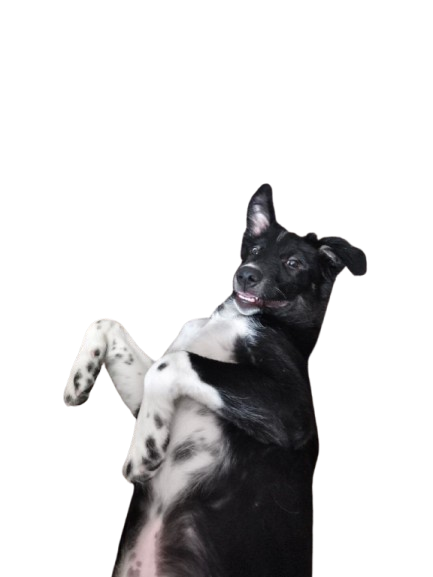
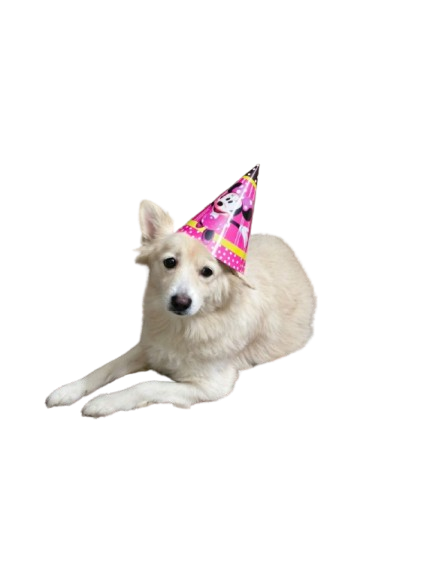
cke

Changed region(s): [[0.0901, 0.2808, 0.8707, 1.0]]

diff --git a/index.html b/index.html
@@ -767,6 +767,15 @@
   will-change:transform;
   transition:opacity .6s ease;
 }
+.ee-dog-hitzone{
+  position:absolute;
+  top:50%; left:50%;
+  width:220%; height:220%;
+  transform:translate(-50%, -50%);
+  pointer-events:auto;
+  cursor:pointer;
+  border-radius:50%;
+}
 .ee-dog img{
   position:absolute; inset:0;
   width:100%; height:100%; object-fit:contain;
@@ -796,7 +805,26 @@
   display:block;
   filter:drop-shadow(0 8px 10px rgba(58,46,34,0.3));
 }
-
+.ee-pawprint{
+  position:fixed; pointer-events:none; z-index:35;
+  font-size:11px; opacity:0.55;
+  animation:eePawFade 1s ease-out forwards;
+}
+@keyframes eePawFade{
+  0%{ opacity:0.55; transform:scale(1); }
+  100%{ opacity:0; transform:scale(0.8); }
+}
+.ee-dog-bubble{
+  position:fixed; z-index:601;
+  background:var(--white,#FFFCF4); color:var(--ink,#3A2E22);
+  font-family:'Fraunces', serif; font-style:italic; font-size:12px;
+  padding:6px 12px; border-radius:14px;
+  box-shadow:0 8px 18px -8px rgba(58,46,34,0.4);
+  opacity:0; pointer-events:none;
+  transition:opacity .3s ease, transform .3s ease;
+  transform:translate(-50%, 6px); white-space:nowrap;
+}
+.ee-dog-bubble.show{ opacity:1; transform:translate(-50%, 0); }
 @media (max-width:640px){
   .ee-dog{ width:48px; height:48px; }
   .ee-dog-together{ width:96px; height:72px; }
@@ -2291,8 +2319,8 @@ Happy Birthday, Chhavi. Thank you for giving me the happiest three years of my l
      separate dogs hide while that's happening. */
   (function(){
     const DOG_CONFIGS = [
-      { id: 'ee-dog-black', frames: ['./assets/dog-black-1.png', './assets/dog-black-2.png'], size: 64 },
-      { id: 'ee-dog-white', frames: ['./assets/dog-white-1.png', './assets/dog-white-2.png'], size: 60 }
+      { id: 'ee-dog-black', name: 'Oreo', frames: ['./assets/dog-black-1.png', './assets/dog-black-2.png'], size: 64 },
+      { id: 'ee-dog-white', name: 'Chiku', frames: ['./assets/dog-white-1.png', './assets/dog-white-2.png'], size: 60 }
     ];
     const TOGETHER_SRC = './assets/dogs-together.png';
 
@@ -2311,14 +2339,19 @@ Happy Birthday, Chhavi. Thank you for giving me the happiest three years of my l
       img1.src = cfg.frames[1];
       img1.alt = '';
 
+      const hitzone = document.createElement('div');
+      hitzone.className = 'ee-dog-hitzone';
       el.appendChild(img0);
       el.appendChild(img1);
+      el.appendChild(hitzone);
       document.body.appendChild(el);
 
       return {
         el, imgs: [img0, img1],
+        name: cfg.name,
         frameIdx: 0,
         lastFrameSwap: 0,
+        lastPawSpawn: 0,
         size: cfg.size,
         x: window.innerWidth * (0.3 + i * 0.4),
         y: window.innerHeight * (0.5 + (i % 2) * 0.15),
@@ -2327,6 +2360,15 @@ Happy Birthday, Chhavi. Thank you for giving me the happiest three years of my l
       };
     });
     dogs.forEach(pickRandomTarget);
+    dogs.forEach((d) => {
+      const hitzoneEl = d.el.querySelector('.ee-dog-hitzone');
+      hitzoneEl.addEventListener('pointerdown', (e) => {
+        e.stopPropagation();
+        lastInteractionTime = Date.now();
+        wakeUp();
+        showBarkBubble(d);
+      });
+    });
 
     const togetherEl = document.createElement('div');
     togetherEl.className = 'ee-dog-together';
@@ -2341,6 +2383,61 @@ Happy Birthday, Chhavi. Thank you for giving me the happiest three years of my l
     function pickRandomTarget(d){
       d.targetX = 40 + Math.random() * (window.innerWidth - 80);
       d.targetY = 60 + Math.random() * (window.innerHeight - 120);
+    }
+
+    let lastInteractionTime = Date.now();
+    let sleepy = false;
+    let sleepyBubbles = [];
+
+    function spawnPaw(d){
+      const paw = document.createElement('div');
+      paw.className = 'ee-pawprint';
+      paw.textContent = '🐾';
+      paw.style.left = (d.x - 6) + 'px';
+      paw.style.top = (d.y + d.size * 0.3) + 'px';
+      paw.style.fontSize = (9 + Math.random() * 4) + 'px';
+      paw.style.transform = `scaleX(${d.facing})`;
+      document.body.appendChild(paw);
+      setTimeout(() => paw.remove(), 1000);
+    }
+
+    function showFloatingBubble(x, y, text, ms){
+      const bubble = document.createElement('div');
+      bubble.className = 'ee-dog-bubble';
+      bubble.textContent = text;
+      bubble.style.left = x + 'px';
+      bubble.style.top = (y - 50) + 'px';
+      document.body.appendChild(bubble);
+      requestAnimationFrame(() => bubble.classList.add('show'));
+      setTimeout(() => {
+        bubble.classList.remove('show');
+        setTimeout(() => bubble.remove(), 350);
+      }, ms || 1400);
+      return bubble;
+    }
+
+    function showMeetBubble(x, y){ showFloatingBubble(x, y, '🐾🐾', 1400); }
+
+    function showBarkBubble(d){
+      const barkLines = [`${d.name}: chhavi didi aagai!`, `${d.name}: woof!`, `${d.name}: pet me pls`, `${d.name}: 🐾 hello 🐾`];
+      showFloatingBubble(d.x, d.y, barkLines[Math.floor(Math.random() * barkLines.length)], 1500);
+    }
+
+    function enterSleepMode(){
+      sleepy = true;
+      sleepyBubbles = dogs.map(d => {
+        const b = document.createElement('div');
+        b.className = 'ee-dog-bubble show';
+        b.textContent = 'z z z';
+        document.body.appendChild(b);
+        return b;
+      });
+    }
+    function wakeUp(){
+      if (!sleepy) return;
+      sleepy = false;
+      sleepyBubbles.forEach(b => b.remove());
+      sleepyBubbles = [];
     }
 
     // phases: 'wander' | 'approach' (auto meet-up) | 'together' (auto play) | 'cursor' (following pointer)
@@ -2361,6 +2458,8 @@ Happy Birthday, Chhavi. Thank you for giving me the happiest three years of my l
     }
 
     function enterCursorMode(cx, cy){
+      lastInteractionTime = Date.now();
+      wakeUp();
       cursorX = cx; cursorY = cy;
       if (phase !== 'cursor') showTogetherAt(togetherX, togetherY);
       phase = 'cursor';
@@ -2376,6 +2475,7 @@ Happy Birthday, Chhavi. Thank you for giving me the happiest three years of my l
       if (e.touches && e.touches[0]) enterCursorMode(e.touches[0].clientX, e.touches[0].clientY + 30);
     }, { passive:true });
     window.addEventListener('touchstart', (e) => {
+      if (e.target.closest && (e.target.closest('.ee-dog') || e.target.closest('.ee-dog-hitzone'))) return;
       if (e.touches && e.touches[0]) enterCursorMode(e.touches[0].clientX, e.touches[0].clientY + 30);
     }, { passive:true });
 
@@ -2404,6 +2504,9 @@ Happy Birthday, Chhavi. Thank you for giving me the happiest three years of my l
     dogs.forEach((d, i) => setTimeout(() => togglePeek(d), 2500 + i * 1400));
 
     function loop(now){
+      if (!sleepy && phase === 'wander' && Date.now() - lastInteractionTime > 32000){
+        enterSleepMode();
+      }
       if (phase === 'together' && Date.now() > phaseUntil){
         phase = 'wander';
         showDogs();
@@ -2417,14 +2520,22 @@ Happy Birthday, Chhavi. Thank you for giving me the happiest three years of my l
 togetherY += dy * 0.05;
         togetherEl.style.transform = `translate(${togetherX - 60}px, ${togetherY - 45}px)`;
       } else {
-        dogs.forEach((d) => {
+        dogs.forEach((d, i) => {
           const dx = d.targetX - d.x;
           const dy = d.targetY - d.y;
           const dist = Math.sqrt(dx*dx + dy*dy);
 
+          if (sleepy){
+            if (sleepyBubbles[i]){
+              sleepyBubbles[i].style.left = d.x + 'px';
+              sleepyBubbles[i].style.top = (d.y - 50) + 'px';
+            }
+            return;
+          }
+
           if (dist < 12 && phase === 'wander') pickRandomTarget(d);
 
-          const speed = phase === 'approach' ? 0.014 : 0.01;
+          const speed = phase === 'approach' ? 0.007 : 0.004;
           d.x += dx * speed;
           d.y += dy * speed;
           if (Math.abs(dx) > 2) d.facing = dx < 0 ? -1 : 1;
@@ -2432,10 +2543,14 @@ togetherY += dy * 0.05;
           const half = d.size / 2;
           d.el.style.transform = `translate(${d.x - half}px, ${d.y - half}px) scaleX(${d.facing})`;
 
-          if (dist > 3 && now - d.lastFrameSwap > 700){
+          if (dist > 3 && now - d.lastFrameSwap > 1600){
             d.frameIdx = 1 - d.frameIdx;
             d.imgs.forEach((img, idx) => img.classList.toggle('frame-active', idx === d.frameIdx));
             d.lastFrameSwap = now;
+          }
+          if (dist > 3 && now - d.lastPawSpawn > 450){
+            spawnPaw(d);
+            d.lastPawSpawn = now;
           }
         });
 
@@ -2446,6 +2561,7 @@ togetherY += dy * 0.05;
           if (dist0 < 15 && dist1 < 15){
             phase = 'together';
             phaseUntil = Date.now() + 3500 + Math.random() * 2000;
+            showMeetBubble(d0.meetX, d0.meetY);
             showTogetherAt(d0.meetX, d0.meetY);
             togetherEl.style.transform = `translate(${d0.meetX - 60}px, ${d0.meetY - 45}px)`;
           }